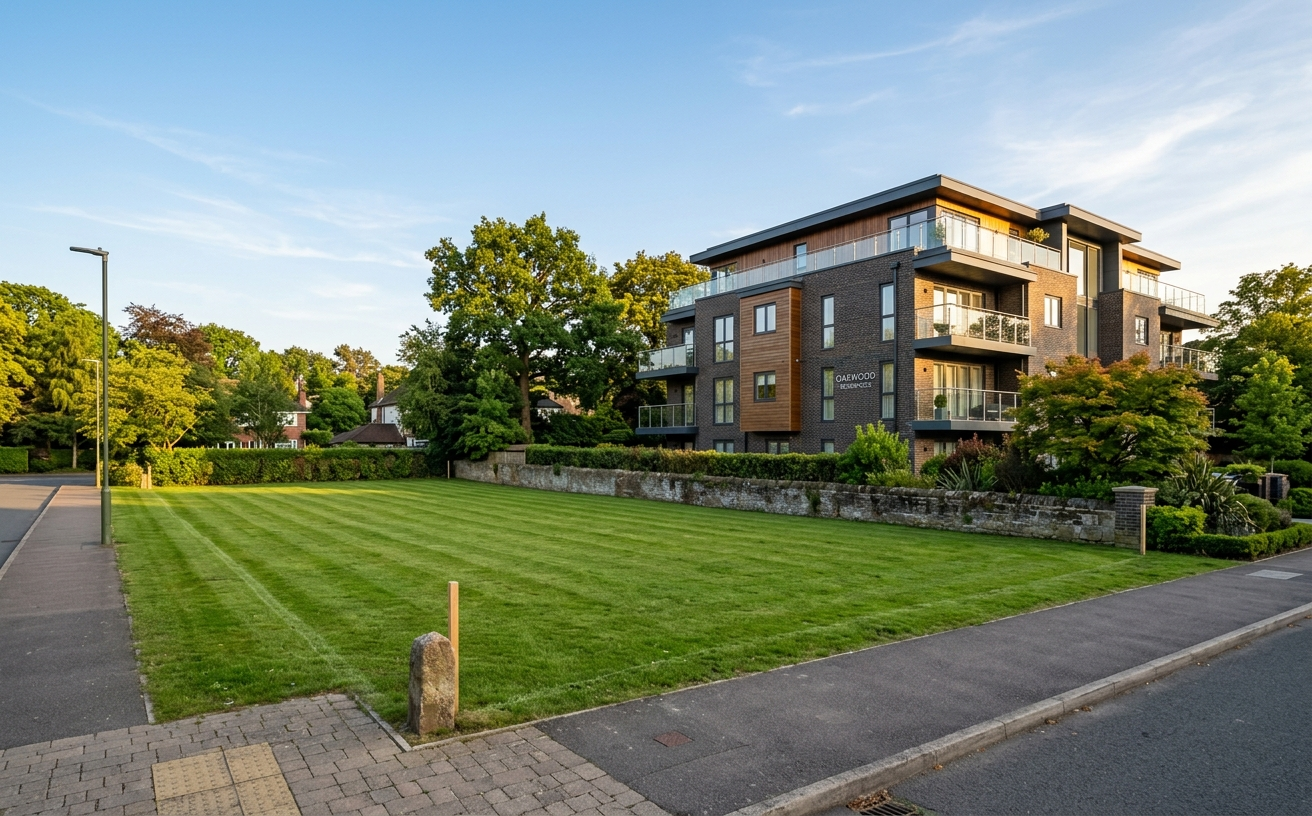
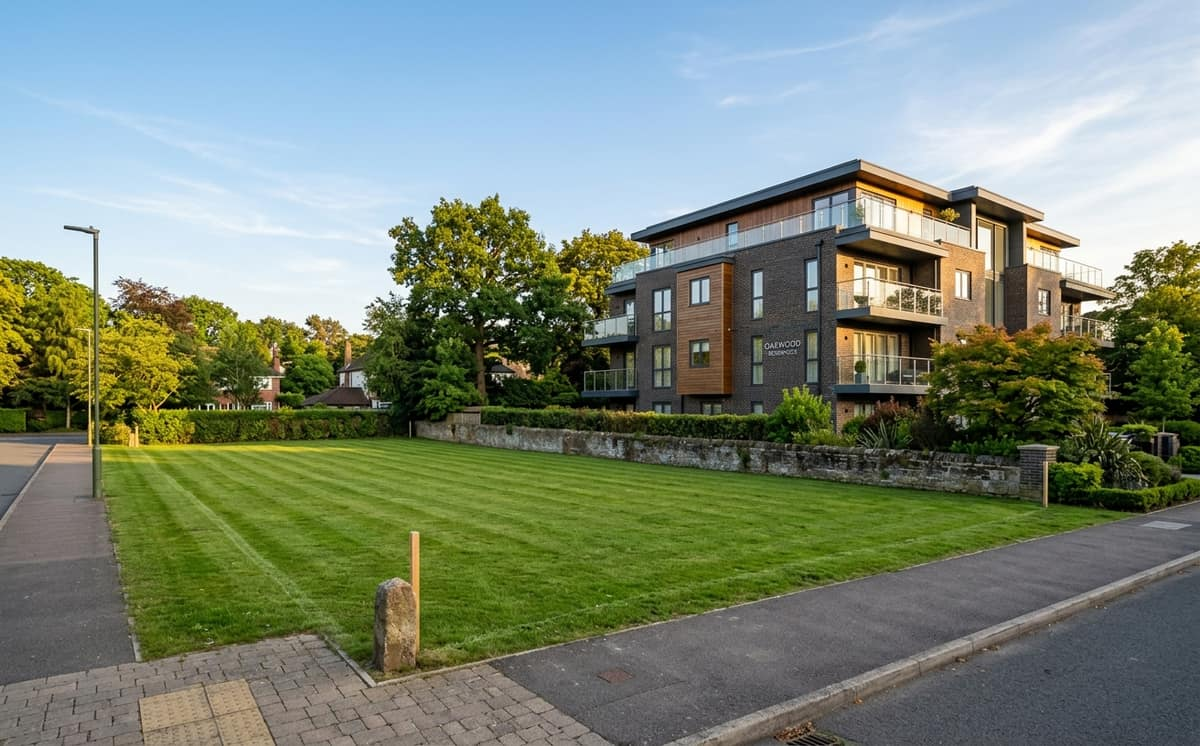
perf(site): mobile-first fast load - compress images 16.5MB->2.1MB, serve WebP, instant hero + faster lead popup
Compressed all /site images (hero 1MB->139KB webp, total JPEG 16.5MB->2.1MB) via scripts/optimize-site-images.cjs and generated WebP siblings. img() now serves WebP for local images. Hero renders instantly (removed opacity-0 fade-in that delayed first paint on mobile). Lead popup appears at 1.2s (was 2.5s) so the form reaches mobile visitors fast. Hero CTA + WhatsApp/call links work with zero JS for immediate lead capture.

diff --git a/apps/web/src/components/site/hero.tsx b/apps/web/src/components/site/hero.tsx
@@ -31,9 +31,7 @@ export function SiteHero() {
 
       <div className="relative mx-auto flex min-h-[100svh] max-w-7xl flex-col justify-center px-5 pt-28 pb-14">
         <motion.div
-          initial={{ opacity: 0, y: 24 }}
-          animate={{ opacity: 1, y: 0 }}
-          transition={{ duration: 0.7 }}
+          initial={false}
           className="max-w-3xl"
         >
           <span className="inline-flex items-center gap-2 rounded-full border border-amber-400/30 bg-amber-400/10 px-4 py-1.5 text-xs font-medium tracking-wide text-amber-300">
@@ -87,9 +85,7 @@ export function SiteHero() {
 
         {/* Stats strip */}
         <motion.dl
-          initial={{ opacity: 0, y: 20 }}
-          animate={{ opacity: 1, y: 0 }}
-          transition={{ duration: 0.7, delay: 0.25 }}
+          initial={false}
           className="mt-12 grid grid-cols-2 gap-px overflow-hidden rounded-2xl border border-white/10 bg-white/5 backdrop-blur-sm lg:grid-cols-4"
         >
           {highlights.map((h) => (

diff --git a/apps/web/src/components/site/site-data.ts b/apps/web/src/components/site/site-data.ts
@@ -273,5 +273,10 @@ const LOCAL_IMAGES: Record<string, string> = {
   'ap-t3': '/site/sample-villa.jpg',
 };
 
-export const img = (seed: string, w: number, h: number) =>
-  LOCAL_IMAGES[seed] || `https://picsum.photos/seed/${seed}/${w}/${h}`;
+// Serve the WebP variant of local images (25–35% smaller than JPEG, supported
+// by all modern mobile browsers). The .jpg still exists as a fallback/original.
+export const img = (seed: string, w: number, h: number) => {
+  const local = LOCAL_IMAGES[seed];
+  if (local) return local.replace(/\.jpe?g$/i, '.webp');
+  return `https://picsum.photos/seed/${seed}/${w}/${h}`;
+};

diff --git a/apps/web/src/components/site/lead-popup.tsx b/apps/web/src/components/site/lead-popup.tsx
@@ -12,7 +12,8 @@ import { normalisePhone, submitLead, flushQueuedLeads } from './site-api';
 // the session but will see it on their next visit.
 const SUBMITTED_KEY = 'anandi-lead-captured';
 const DISMISSED_KEY = 'anandi-lead-dismissed';
-const OPEN_DELAY_MS = 2500;
+// Short delay so the lead form reaches mobile visitors quickly (they may bounce).
+const OPEN_DELAY_MS = 1200;
 
 type Status = 'idle' | 'sending' | 'done' | 'error';
 
